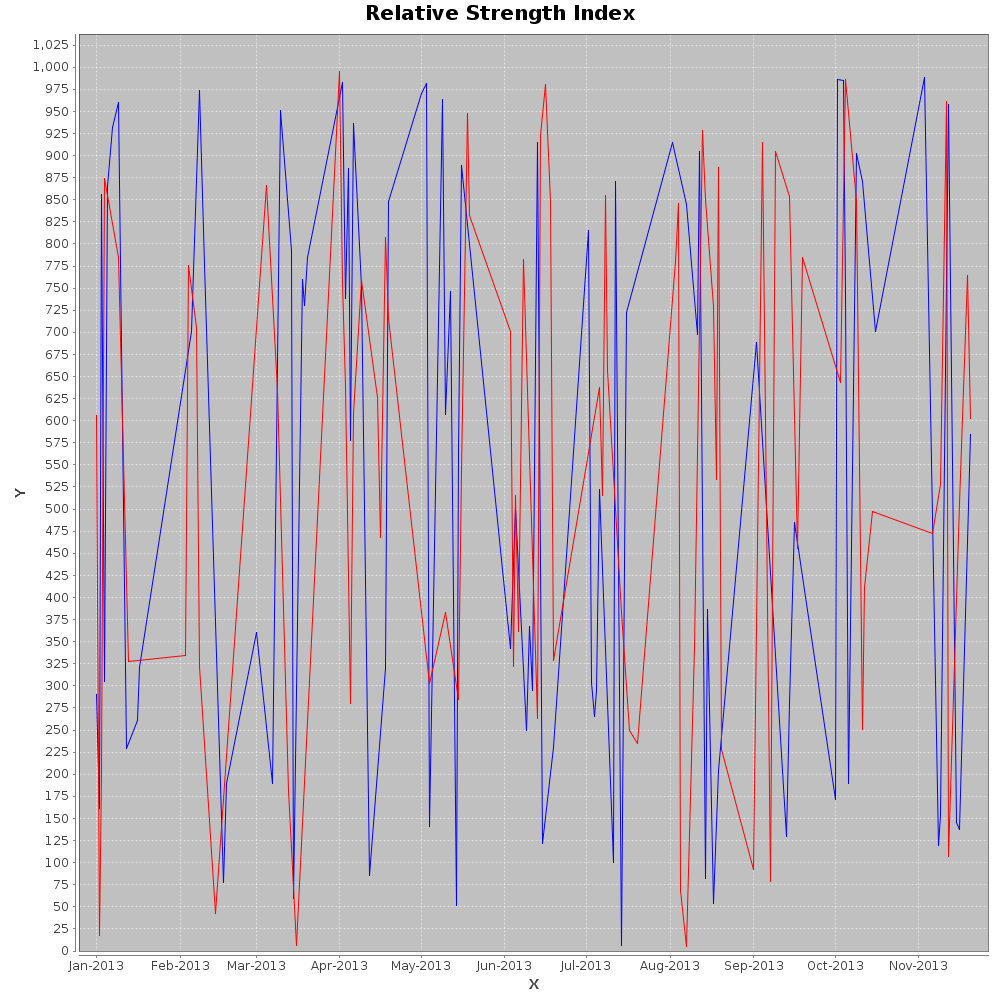
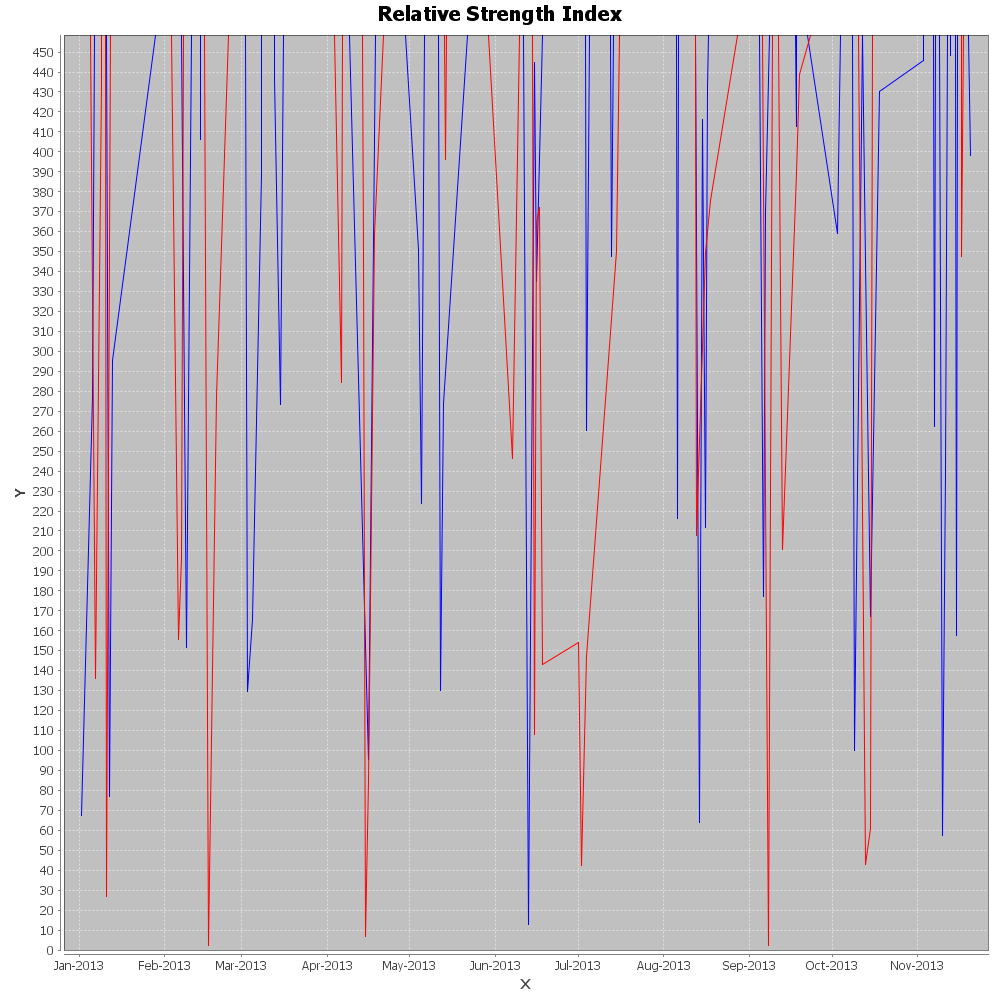
fixed the problem with the JSplitPane. Should work now

Changed region(s): [[0.031, 0.0, 0.992, 0.992]]

diff --git a/src/edu/brown/cs32/atian/crassus/gui/mainwindow/plot/CrassusPlotPane.java b/src/edu/brown/cs32/atian/crassus/gui/mainwindow/plot/CrassusPlotPane.java
@@ -61,8 +61,12 @@ public class CrassusPlotPane extends JPanel {
 	}
 
 	private CrassusImageDisplayer primaryPanel;
+	private CrassusImageDisplayer primaryPanelNormal;
+	private CrassusImageDisplayer primaryPanelSplit;
 	private CrassusImageDisplayer rsPanel;
-	private boolean rsOnState;
+	private boolean rsOnState = false;
+	private JPanel normalPane;
+	private JSplitPane splitPane;
 	
 	private JComboBox<String> timeframe;
 	private JComboBox<String> timeFreq;
@@ -89,16 +93,29 @@ public class CrassusPlotPane extends JPanel {
 						BorderFactory.createEtchedBorder(EtchedBorder.LOWERED)),
 				BorderFactory.createEmptyBorder(5,5,5,5)));
 		
-		primaryPanel = new CrassusImageDisplayer();
+		primaryPanelNormal = new CrassusImageDisplayer();
+		
+		primaryPanelSplit = new CrassusImageDisplayer();
+		primaryPanelSplit.setMinimumSize(new Dimension(200,200));
+		primaryPanelSplit.setPreferredSize(new Dimension(250,250));
+		
+		primaryPanel = primaryPanelNormal;
 		
 		rsPanel = new CrassusImageDisplayer();
+		rsPanel.setMinimumSize(new Dimension(140,140));
+		rsPanel.setPreferredSize(new Dimension(180,180));
 		
-		JSplitPane splitPane = new JSplitPane(JSplitPane.VERTICAL_SPLIT,primaryPanel,rsPanel);
+		splitPane = new JSplitPane(JSplitPane.VERTICAL_SPLIT,primaryPanelSplit,rsPanel);
+		splitPane.setBorder(BorderFactory.createEtchedBorder());
 		splitPane.setOneTouchExpandable(true);
-		splitPane.setDividerLocation(350);
-		this.add(splitPane,BorderLayout.CENTER);
-		//splitPane.setDividerLocation(splitPane.getSize().width - splitPane.getInsets().bottom - splitPane.getDividerSize() - 100);
-		splitPane.setResizeWeight(1.0);
+		splitPane.setResizeWeight(.75);
+		
+		normalPane = new JPanel();
+		normalPane.setLayout(new BorderLayout());
+		normalPane.setBorder(BorderFactory.createEtchedBorder());
+		normalPane.add(primaryPanel);
+		
+		this.add(normalPane, BorderLayout.CENTER);
 		
 		timeframe = new JComboBox<String>();
 		timeframe.addItem("One Day");
@@ -131,8 +148,9 @@ public class CrassusPlotPane extends JPanel {
 		
 		this.add(timePanel, BorderLayout.SOUTH);
 		
-		primaryPanel.addComponentListener(new ResizeListener());
-		rsPanel.addComponentListener(new ResizeListener());
+//		primaryPanel.addComponentListener(new ResizeListener());
+//		rsPanel.addComponentListener(new ResizeListener());
+		this.addComponentListener(new ResizeListener());
 	}
 
 	public void changeToStock(Stock stock){
@@ -345,12 +363,46 @@ public class CrassusPlotPane extends JPanel {
 					ind.addToPlot(plot, stock.getStartTime(), stock.getEndTime());
 				}
 			}
-			
-			BufferedImage primary = plot.getPrimaryBufferedImage(primaryPanel.getWidth(), primaryPanel.getHeight());
+			System.out.println("ok at point 1");
+			if(rsOnState!=plot.isRsOn()){
+				if(plot.isRsOn()){
+					System.out.println("ok at point 2a");
+					
+					this.remove(normalPane);
+					this.add(splitPane, BorderLayout.CENTER);
+					primaryPanel = primaryPanelSplit;
+					
+					splitPane.setDividerLocation(.75);
+				}
+				else{
+					System.out.println("ok at point 2b");
+					this.remove(splitPane);
+					this.add(normalPane, BorderLayout.CENTER);
+					primaryPanel = primaryPanelNormal;
+				}
+				rsOnState = plot.isRsOn();
+			}
+			System.out.println("ok at point 3");
+			int width = primaryPanel.getWidth();
+			if(width==0)
+				width = this.getWidth();
+			int height = primaryPanel.getHeight();
+			if(height==0)
+				height = this.getHeight();
+			BufferedImage primary = plot.getPrimaryBufferedImage(width,height);
 			primaryPanel.setImage(primary);
 			
+			
+			System.out.println("ok at point 4");
 			if(plot.isRsOn()){
-				BufferedImage rs = plot.getRsBufferedImage(rsPanel.getWidth(), rsPanel.getHeight());
+				System.out.println("ok at point 5");
+				int rsWidth = rsPanel.getWidth();
+				if(rsWidth==0)
+					rsWidth = this.getWidth();
+				int rsHeight = rsPanel.getHeight();
+				if(rsHeight==0)
+					rsHeight = this.getHeight();
+				BufferedImage rs = plot.getRsBufferedImage(rsWidth,rsHeight);
 				rsPanel.setImage(rs);
 				
 				rsPanel.revalidate();
